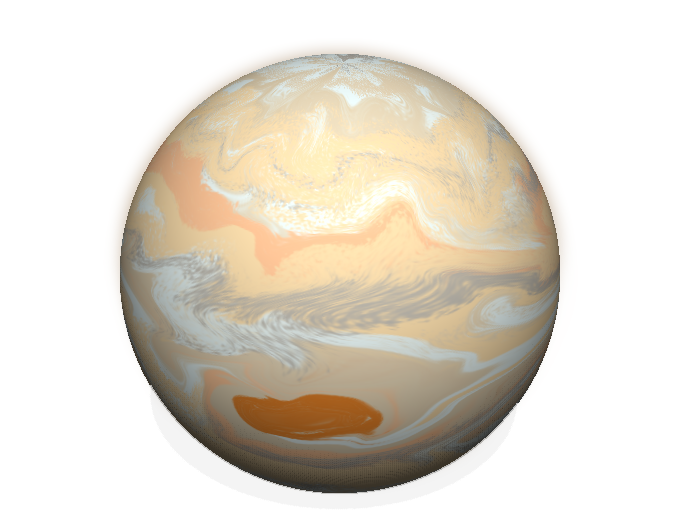
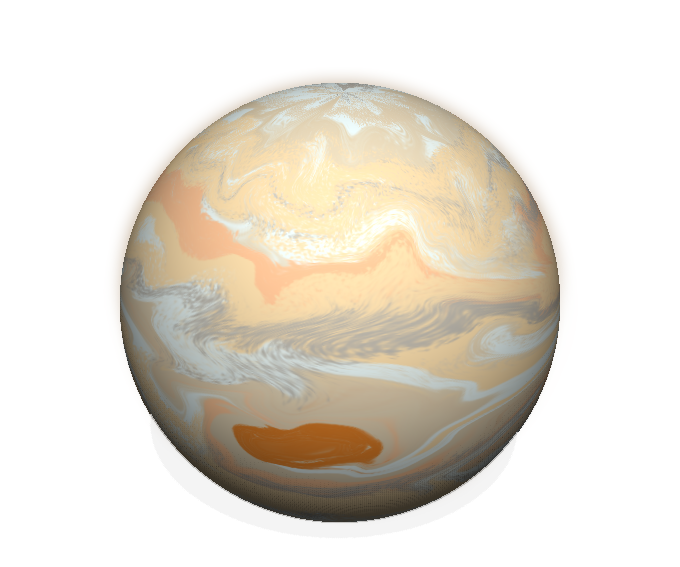
adjust jupiter width in html

diff --git a/index.html b/index.html
@@ -73,7 +73,7 @@
         <p></p>
       </li>
       <li class="planetContainer">
-        <img src="./images/jupiter.png" alt="jupiter" width="660px">
+        <img src="./images/jupiter.png" alt="jupiter" width="550px">
         <div class="popup">
           <h4>Jupiter</h4>
           <p class="description">The largest planet of the solar system it is the 5th closest planet to the sun and has 3 faint rings surrounding the planet.  A gas giant Jupiter’s surface is made from hydrogen and helium and has a magnetic field is 14 times stronger than on Earth. One years is equal to 11 Earth years and has 63 moons!</p>
